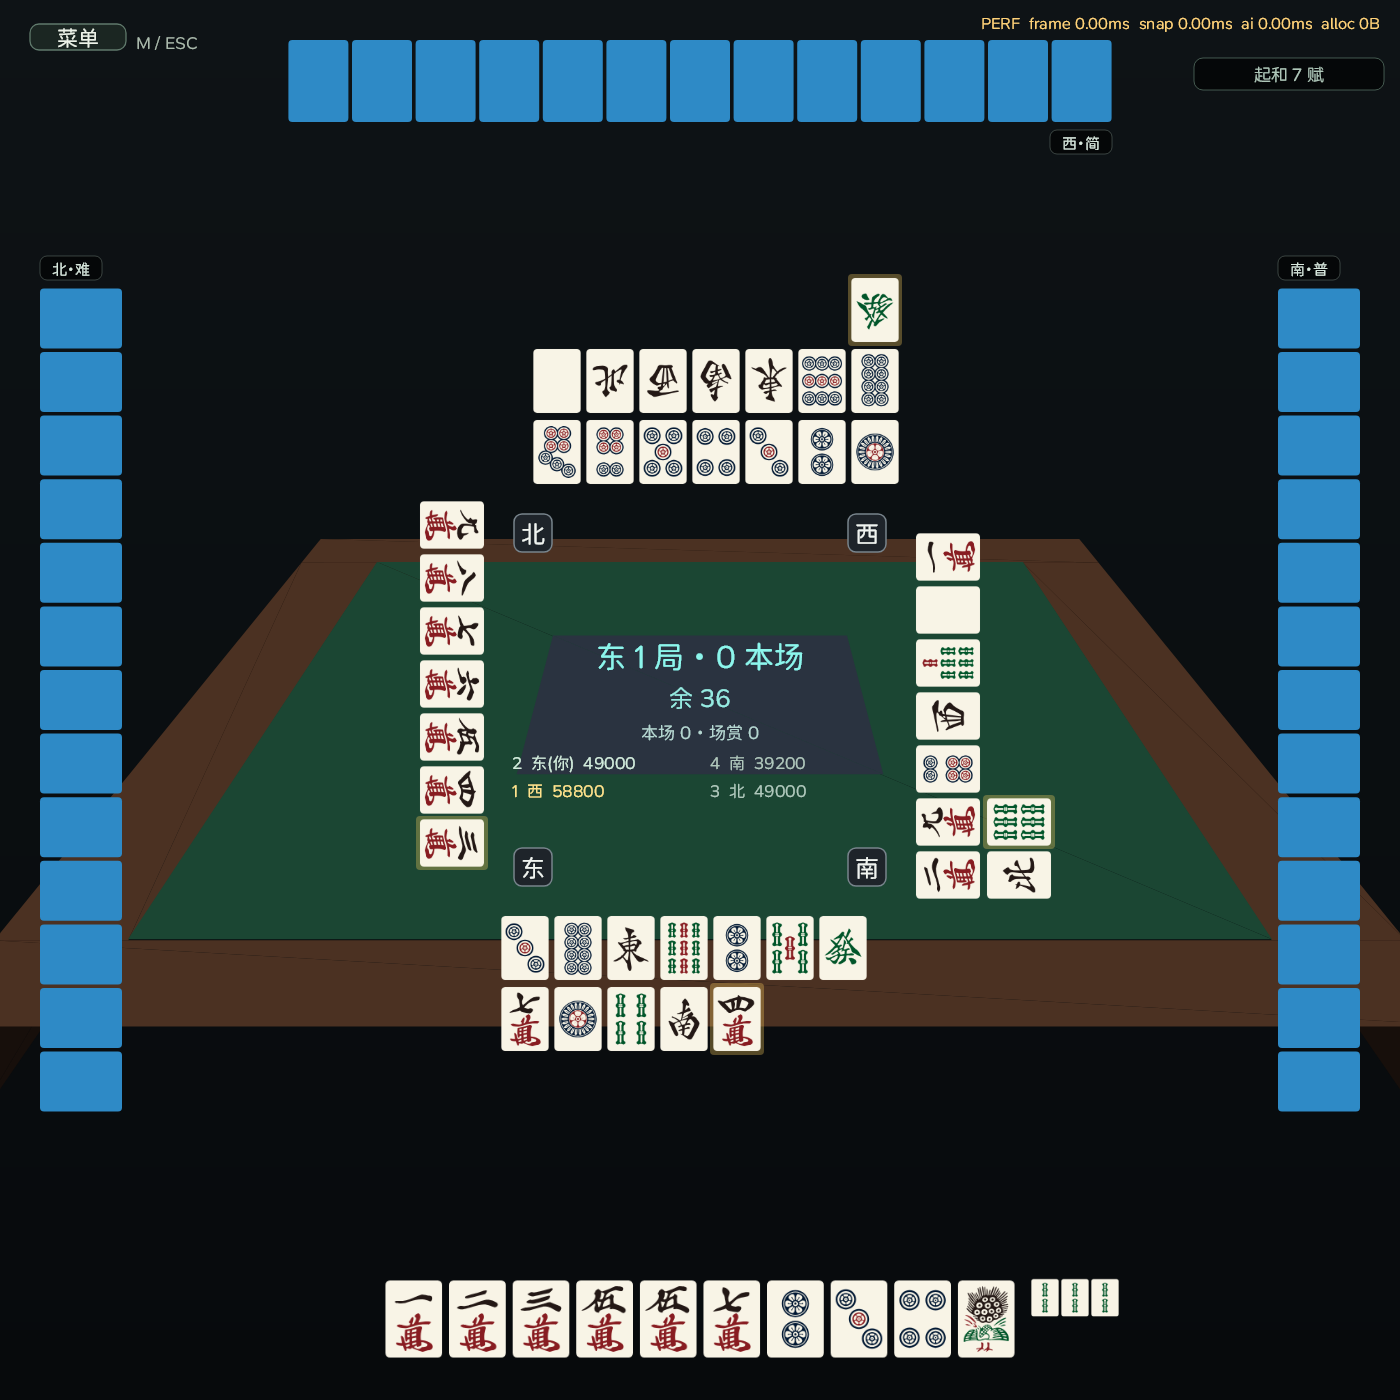
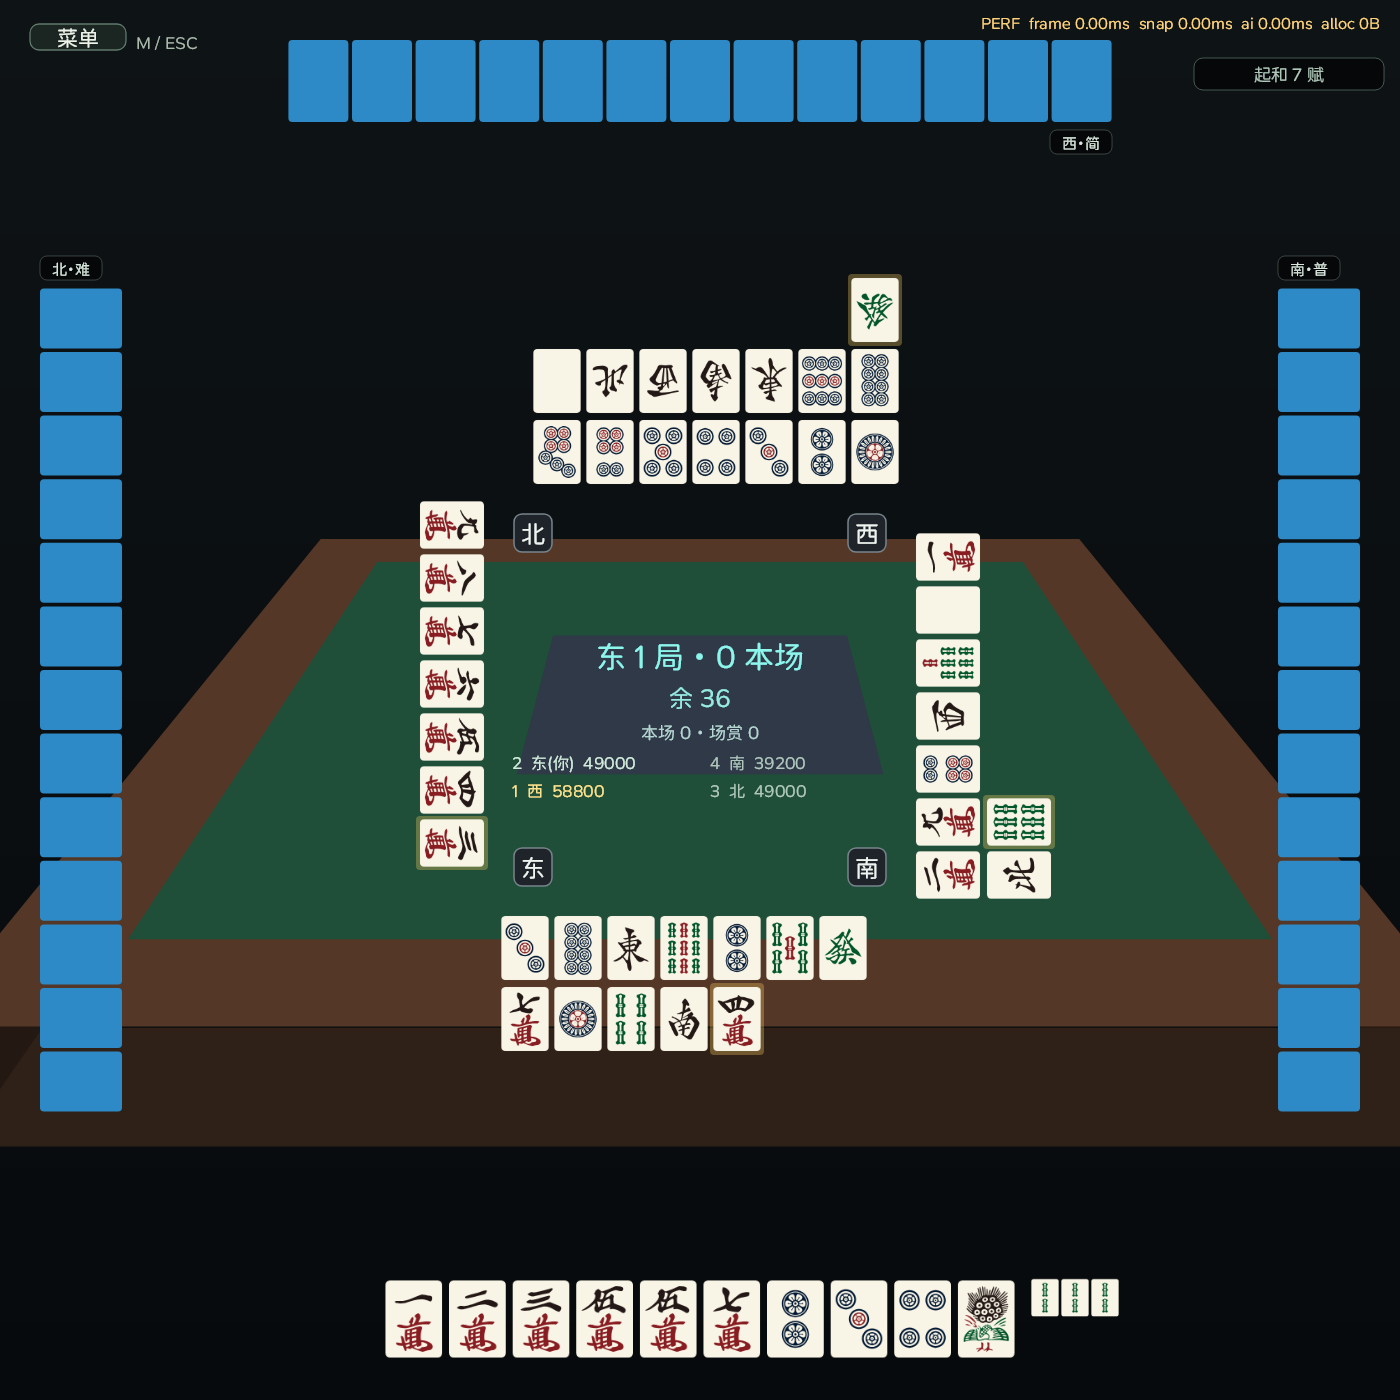
Add Soft3D tile demo and remove quad seams
- DevTools --render-soft3d-tile: CPU tile box + textured face via DrawVertices
- draw table top/sides as single projected quads, avoiding triangle AA seams
- update Soft3D docs and previews

By DSH

Changed region(s): [[0.0, 0.7064, 1.0, 0.8293]]

diff --git a/src/Tiisu.App/Table/Soft3DTable.cs b/src/Tiisu.App/Table/Soft3DTable.cs
@@ -1,4 +1,3 @@
-using System.Collections.Generic;
 using Tiisu.App.Rendering;
 using Color = Tiisu.App.Rendering.Color;
 
@@ -8,32 +7,87 @@ namespace Tiisu.App.Table;
 /// Soft-3D 桌面：几何体只构建一次，投影/着色只做一次（由 <see cref="StaticLayerCache{TKey}"/> 缓存），
 /// 之后每帧只贴缓存图。动态牌仍然是 2D，不进入软 3D 热路径。
 ///
+/// 顶面/侧面都按「整块四边形投影后一次填充」画，不把四边形拆成两个三角形，
+/// 避免抗锯齿边界出现三角面之间的亮线/暗线。
 /// 参考图是 2002 年的预渲染 2D，FOV 不可知；25° 只是本实验选定的相机，不是参考图测出的角度。
-/// 相机固定，不跟窗口/快照变化。
 /// </summary>
 public static class Soft3DTable
 {
     public const float CameraPitchDegrees = 25f;
     public const float CameraFovDegrees = 55f;
 
-    private static readonly IReadOnlyList<Software3D.Triangle3D> Sides = BuildSides();
-    private static readonly IReadOnlyList<Software3D.Triangle3D> Floor = BuildFloor();
-    private static readonly IReadOnlyList<Software3D.Triangle3D> WoodTop = BuildWoodTop();
-    private static readonly IReadOnlyList<Software3D.Triangle3D> Felt = BuildFelt();
-    private static readonly IReadOnlyList<Software3D.Triangle3D> Plate = BuildPlate();
     private static readonly Software3D.Camera3D Camera = BuildCamera();
 
     public static void Draw(ICanvas c, TableLayoutSpec layout)
     {
-        // 背景与桌体分层画。每层单独投影/排序，避免画家算法把中央板压到绿呢下面。
         c.FillLinearGradient(new RectF(0, 0, layout.CanvasW, layout.CanvasH), 0,
             Color.Rgb(14, 19, 22), Color.Rgb(7, 10, 12));
 
-        Software3D.Render(c, Floor, Camera, layout.CanvasW, layout.CanvasH);
-        Software3D.Render(c, Sides, Camera, layout.CanvasW, layout.CanvasH);
-        Software3D.Render(c, WoodTop, Camera, layout.CanvasW, layout.CanvasH);
-        Software3D.Render(c, Felt, Camera, layout.CanvasW, layout.CanvasH);
-        Software3D.Render(c, Plate, Camera, layout.CanvasW, layout.CanvasH);
+        // 地面（整块四边形）
+        DrawQuad(c, layout,
+            new Software3D.Vertex3(-2f, -0.105f, -2f),
+            new Software3D.Vertex3(2f, -0.105f, -2f),
+            new Software3D.Vertex3(2f, -0.105f, 2f),
+            new Software3D.Vertex3(-2f, -0.105f, 2f),
+            Color.Rgb(20, 25, 27));
+
+        // 桌侧
+        const float half = 0.5f;
+        const float bottom = -0.10f;
+        DrawSide(c, layout, -half, -half, half, -half, bottom, Color.Rgb(48, 33, 24));
+        DrawSide(c, layout, half, -half, half, half, bottom, Color.Rgb(36, 24, 18));
+        DrawSide(c, layout, half, half, -half, half, bottom, Color.Rgb(48, 33, 24));
+        DrawSide(c, layout, -half, half, -half, -half, bottom, Color.Rgb(36, 24, 18));
+
+        // 木框整块 → 绿呢 → 中央板；每层一个四边形，避免内部三角接缝。
+        DrawQuad(c, layout,
+            new Software3D.Vertex3(-half, 0.001f, -half),
+            new Software3D.Vertex3(half, 0.001f, -half),
+            new Software3D.Vertex3(half, 0.001f, half),
+            new Software3D.Vertex3(-half, 0.001f, half),
+            Color.Rgb(84, 55, 38));
+
+        const float felt = 0.405f;
+        DrawQuad(c, layout,
+            new Software3D.Vertex3(-felt, 0.002f, -felt),
+            new Software3D.Vertex3(felt, 0.002f, -felt),
+            new Software3D.Vertex3(felt, 0.002f, felt),
+            new Software3D.Vertex3(-felt, 0.002f, felt),
+            Color.Rgb(31, 78, 57));
+
+        const float plate = 0.16f;
+        DrawQuad(c, layout,
+            new Software3D.Vertex3(-plate, 0.003f, -plate),
+            new Software3D.Vertex3(plate, 0.003f, -plate),
+            new Software3D.Vertex3(plate, 0.003f, plate),
+            new Software3D.Vertex3(-plate, 0.003f, plate),
+            Color.Rgb(47, 57, 72));
+    }
+
+    private static void DrawSide(ICanvas c, TableLayoutSpec layout,
+        float x0, float z0, float x1, float z1, float bottom, Color color)
+    {
+        DrawQuad(c, layout,
+            new Software3D.Vertex3(x0, 0f, z0),
+            new Software3D.Vertex3(x1, 0f, z1),
+            new Software3D.Vertex3(x1, bottom, z1),
+            new Software3D.Vertex3(x0, bottom, z0),
+            color);
+    }
+
+    private static void DrawQuad(ICanvas c, TableLayoutSpec layout,
+        Software3D.Vertex3 a, Software3D.Vertex3 b, Software3D.Vertex3 c3, Software3D.Vertex3 d,
+        Color color)
+    {
+        if (!Software3D.TryProject(Camera, a, layout.CanvasW, layout.CanvasH, out CanvasPoint pa, out _)
+            || !Software3D.TryProject(Camera, b, layout.CanvasW, layout.CanvasH, out CanvasPoint pb, out _)
+            || !Software3D.TryProject(Camera, c3, layout.CanvasW, layout.CanvasH, out CanvasPoint pc, out _)
+            || !Software3D.TryProject(Camera, d, layout.CanvasW, layout.CanvasH, out CanvasPoint pd, out _))
+        {
+            return;
+        }
+
+        c.FillPolygon(new[] { pa, pb, pc, pd }, color);
     }
 
     private static Software3D.Camera3D BuildCamera()
@@ -53,91 +107,5 @@ public static class Soft3DTable
             CameraFovDegrees,
             Near: 0.05f,
             Far: 50f);
-    }
-
-    private static IReadOnlyList<Software3D.Triangle3D> BuildFloor()
-    {
-        const float half = 2f;
-        const float y = -0.105f;
-        var color = Color.Rgb(20, 25, 27);
-        var list = new List<Software3D.Triangle3D>(2);
-        Quad(list, -half, -half, half, half, y, color);
-        return list;
-    }
-
-    private static IReadOnlyList<Software3D.Triangle3D> BuildSides()
-    {
-        const float half = 0.5f;
-        const float bottom = -0.10f;
-        var wood = Color.Rgb(48, 33, 24);
-        var woodDark = Color.Rgb(36, 24, 18);
-        var list = new List<Software3D.Triangle3D>(16);
-
-        void Side(Software3D.Vertex3 a, Software3D.Vertex3 b, Color color)
-        {
-            var c = new Software3D.Vertex3(a.X, bottom, a.Z);
-            var d = new Software3D.Vertex3(b.X, bottom, b.Z);
-            list.Add(new Software3D.Triangle3D(a, b, c, color));
-            list.Add(new Software3D.Triangle3D(b, d, c, color));
-        }
-
-        Side(new Software3D.Vertex3(-half, 0f, -half), new Software3D.Vertex3(half, 0f, -half), wood);
-        Side(new Software3D.Vertex3(half, 0f, -half), new Software3D.Vertex3(half, 0f, half), woodDark);
-        Side(new Software3D.Vertex3(half, 0f, half), new Software3D.Vertex3(-half, 0f, half), wood);
-        Side(new Software3D.Vertex3(-half, 0f, half), new Software3D.Vertex3(-half, 0f, -half), woodDark);
-        return list;
-    }
-
-    private static IReadOnlyList<Software3D.Triangle3D> BuildWoodTop()
-    {
-        const float half = 0.5f;
-        const float felt = 0.405f;
-        var woodTop = Color.Rgb(84, 55, 38);
-        var list = new List<Software3D.Triangle3D>(16);
-
-        void Quad(float x0, float z0, float x1, float z1, Color color)
-        {
-            var a = new Software3D.Vertex3(x0, 0.001f, z0);
-            var b = new Software3D.Vertex3(x1, 0.001f, z0);
-            var c = new Software3D.Vertex3(x1, 0.001f, z1);
-            var d = new Software3D.Vertex3(x0, 0.001f, z1);
-            list.Add(new Software3D.Triangle3D(a, b, c, color));
-            list.Add(new Software3D.Triangle3D(a, c, d, color));
-        }
-
-        Quad(-half, -half, half, -felt, woodTop);
-        Quad(-half, felt, half, half, woodTop);
-        Quad(-half, -felt, -felt, felt, woodTop);
-        Quad(felt, -felt, half, felt, woodTop);
-        return list;
-    }
-
-    private static IReadOnlyList<Software3D.Triangle3D> BuildFelt()
-    {
-        const float felt = 0.405f;
-        var color = Color.Rgb(31, 78, 57);
-        var list = new List<Software3D.Triangle3D>(2);
-        Quad(list, -felt, -felt, felt, felt, 0.002f, color);
-        return list;
-    }
-
-    private static IReadOnlyList<Software3D.Triangle3D> BuildPlate()
-    {
-        const float plate = 0.16f;
-        var color = Color.Rgb(47, 57, 72);
-        var list = new List<Software3D.Triangle3D>(2);
-        Quad(list, -plate, -plate, plate, plate, 0.003f, color);
-        return list;
-    }
-
-    private static void Quad(
-        List<Software3D.Triangle3D> list, float x0, float z0, float x1, float z1, float y, Color color)
-    {
-        var a = new Software3D.Vertex3(x0, y, z0);
-        var b = new Software3D.Vertex3(x1, y, z0);
-        var c = new Software3D.Vertex3(x1, y, z1);
-        var d = new Software3D.Vertex3(x0, y, z1);
-        list.Add(new Software3D.Triangle3D(a, b, c, color));
-        list.Add(new Software3D.Triangle3D(a, c, d, color));
     }
 }

diff --git a/tools/Tiisu.DevTools/DevCommands.cs b/tools/Tiisu.DevTools/DevCommands.cs
@@ -1,4 +1,4 @@
-using System;
+using System;
 using System.Collections.Generic;
 using System.Diagnostics;
 using System.Globalization;
@@ -2701,6 +2701,125 @@ internal static class DevCommands
     /// <c>--render-table-png &lt;png&gt; --variant mixed|flat|light|medium</c>：按指定观感出 1400×1400 牌桌图。
     /// 与游戏内同一条 TableScreen 绘制路径（含手牌、牌河、动作条、HUD），便于对照可读性。
     /// </summary>
+    /// <summary>
+    /// <c>--render-soft3d-tile &lt;png&gt; [tileId]</c>：用 <see cref="Software3D"/> 画一张 3D 麻将牌。
+    /// 牌身是 CPU 三角形；牌面用 Skia 的 texture-coord 顶点贴到投影后的正面四边形上。
+    /// </summary>
+    private static void RenderSoft3DTile(string[] args)
+    {
+        Tiisu.App.Program.TryUseUtf8Console();
+        string path = args[1];
+        string tileId = args.Length >= 3 ? args[2] : "5z";
+
+        using var atlas = new TileAtlas(Tiisu.App.Program.AssetsDir);
+        if (!atlas.IsLoaded || !atlas.TryGetSource(tileId, out SKRect src) || atlas.Sheet is null)
+        {
+            Console.Error.WriteLine($"tile atlas missing: {tileId}");
+            return;
+        }
+
+        const int size = 800;
+        var info = new SKImageInfo(size, size);
+        using var surface = SKSurface.Create(info);
+        if (surface is null)
+        {
+            return;
+        }
+
+        SKCanvas canvas = surface.Canvas;
+        canvas.Clear(SKColors.Transparent);
+        using (var ctx = new SkiaCanvas(canvas, atlas))
+        {
+            ctx.FillLinearGradient(new RectF(0, 0, size, size), 0,
+                Color.Rgb(24, 31, 36), Color.Rgb(8, 11, 14));
+        }
+
+        var camera = new Software3D.Camera3D(
+            new Software3D.Vertex3(0.78f, 0.52f, 2.25f),
+            new Software3D.Vertex3(0f, 0f, 0f),
+            new Software3D.Vertex3(0f, 1f, 0f),
+            FovDegrees: 33f,
+            Near: 0.05f,
+            Far: 20f);
+
+        var triangles = BuildSoft3DTileTriangles(out Software3D.Vertex3 faceTl, out Software3D.Vertex3 faceTr,
+            out Software3D.Vertex3 faceBr, out Software3D.Vertex3 faceBl);
+        using (var ctx = new SkiaCanvas(canvas, atlas))
+        {
+            Software3D.Render(ctx, triangles, camera, size, size);
+        }
+
+        if (Software3D.TryProject(camera, faceTl, size, size, out CanvasPoint tl, out _)
+            && Software3D.TryProject(camera, faceTr, size, size, out CanvasPoint tr, out _)
+            && Software3D.TryProject(camera, faceBr, size, size, out CanvasPoint br, out _)
+            && Software3D.TryProject(camera, faceBl, size, size, out CanvasPoint bl, out _))
+        {
+            // 左上、右上、右下、左下 + 两个三角形索引。
+            var positions = new[]
+            {
+                new SKPoint(tl.X, tl.Y), new SKPoint(tr.X, tr.Y), new SKPoint(br.X, br.Y),
+                new SKPoint(tl.X, tl.Y), new SKPoint(br.X, br.Y), new SKPoint(bl.X, bl.Y),
+            };
+            var texs = new[]
+            {
+                new SKPoint(src.Left, src.Top), new SKPoint(src.Right, src.Top), new SKPoint(src.Right, src.Bottom),
+                new SKPoint(src.Left, src.Top), new SKPoint(src.Right, src.Bottom), new SKPoint(src.Left, src.Bottom),
+            };
+            var colors = Enumerable.Repeat(SKColors.White, 6).ToArray();
+            using var shader = SKShader.CreateImage(atlas.Sheet, SKShaderTileMode.Clamp, SKShaderTileMode.Clamp);
+            using var paint = new SKPaint { Shader = shader, IsAntialias = false };
+            canvas.DrawVertices(SKVertexMode.Triangles, positions, texs, colors, paint);
+        }
+
+        using var image = surface.Snapshot();
+        using var data = image.Encode(SKEncodedImageFormat.Png, 100);
+        File.WriteAllBytes(path, data.ToArray());
+        Console.WriteLine($"rendered soft3d tile {tileId} -> {path}");
+    }
+
+    private static List<Software3D.Triangle3D> BuildSoft3DTileTriangles(
+        out Software3D.Vertex3 faceTl,
+        out Software3D.Vertex3 faceTr,
+        out Software3D.Vertex3 faceBr,
+        out Software3D.Vertex3 faceBl)
+    {
+        const float w = 0.62f;
+        const float h = 0.90f;
+        const float d = 0.18f;
+        float x = w / 2f;
+        float y = h / 2f;
+        float z = d / 2f;
+
+        faceTl = new Software3D.Vertex3(-x, y, z);
+        faceTr = new Software3D.Vertex3(x, y, z);
+        faceBr = new Software3D.Vertex3(x, -y, z);
+        faceBl = new Software3D.Vertex3(-x, -y, z);
+
+        var backTl = new Software3D.Vertex3(-x, y, -z);
+        var backTr = new Software3D.Vertex3(x, y, -z);
+        var backBr = new Software3D.Vertex3(x, -y, -z);
+        var backBl = new Software3D.Vertex3(-x, -y, -z);
+
+        var white = Color.Rgb(236, 230, 206);
+        var ivory = Color.Rgb(208, 198, 166);
+        var blue = Color.Rgb(31, 118, 196);
+        var list = new List<Software3D.Triangle3D>(24);
+
+        void Quad(Software3D.Vertex3 a, Software3D.Vertex3 b, Software3D.Vertex3 c, Software3D.Vertex3 e, Color color)
+        {
+            list.Add(new Software3D.Triangle3D(a, b, c, color));
+            list.Add(new Software3D.Triangle3D(a, c, e, color));
+        }
+
+        Quad(faceTl, faceTr, faceBr, faceBl, white);
+        Quad(backTl, backBl, backBr, backTr, blue);
+        Quad(faceTl, faceBl, backBl, backTl, ivory);
+        Quad(faceTr, backTr, backBr, faceBr, ivory);
+        Quad(faceTl, backTl, backTr, faceTr, ivory);
+        Quad(faceBl, faceBr, backBr, backBl, ivory);
+        return list;
+    }
+
     private static void Render25DToPng(string[] args)
     {
         string path = args[1];
@@ -6185,6 +6304,13 @@ internal static class DevCommands
         if (args.Length >= 2 && args[0] == "--render-table-png")
         {
             Render25DToPng(args);
+            return 0;
+        }
+
+        // 单张牌 Soft-3D 实验：--render-soft3d-tile <png> [tileId]
+        if (args.Length >= 2 && args[0] == "--render-soft3d-tile")
+        {
+            RenderSoft3DTile(args);
             return 0;
         }
 

diff --git a/art/table/skin-blender/README.md b/art/table/skin-blender/README.md
@@ -15,6 +15,8 @@
 | `preview.png` | 接进 `TableSceneSkia` 后的 1400×1400 预览 |
 | `render_4x3_reference.py` | 按实验相机 25° 出 800×600 预览（参考图本身无 FOV 信息） |
 | `preview-4x3.png` | 4:3 透视预览 |
+| `soft3d-preview.png` | Soft-3D 桌面实验预览（四边形投影，避免三角接缝） |
+| `soft3d-tile-preview.png` | `--render-soft3d-tile` 的单张牌小样 |
 | `REFERENCE.md` | 参考图测点与角度推导 |
 
 ## 重新生成
@@ -31,6 +33,10 @@ blender --background Assets\Table.blend --python art\table\skin-blender\render_4
 $env:TIISU_SKIN = "$PWD\art\table\skin-blender"
 tools\Tiisu.DevTools\bin\Debug\net10.0-windows10.0.19041\Tiisu.DevTools.exe `
   --render-table-png artifacts\3d\table-skin-flat.png --variant flat
+
+# 单张牌 Soft-3D 小样
+tools\Tiisu.DevTools\bin\Debug\net10.0-windows10.0.19041\Tiisu.DevTools.exe `
+  --render-soft3d-tile artifacts\3d\tile.png 1m
 ```
 
 随包启用时，把 `skin.json`、`table.png`、`center-plate.png` 放到

diff --git a/docs/DSH/Software3D_方案_261113.md b/docs/DSH/Software3D_方案_261113.md
@@ -26,7 +26,9 @@
 单三角形投影 + 排序是 O(n log n)。几百个三角形可以接受；上千个会明显吃 CPU。
 **不要放进每帧主循环**，只在需要静态 3D 预览时调用，并且不要和 Skia 的桌面透视叠加。
 
-## 不启用
+## 当前调用点
 
-- 没有任何调用点；程序启动、对局、渲染都不引用它。
-- 以后真要做 3D（例如牌桌 3D 视角）再单独评估：优先考虑换 GPU 后端，而不是这个 CPU 版。
+- `Soft3DTable`：牌桌 Soft-3D，首次由 `StaticLayerCache` 烘一次，之后每帧贴图。
+- DevTools `--render-soft3d-tile <png> [tileId]`：单张牌 3D 小样；牌身用 `Software3D` 三角形，
+  牌面用 Skia 顶点纹理坐标贴到投影后的正面四边形。
+- 仍不进入每帧主循环；动态牌继续 2D。
